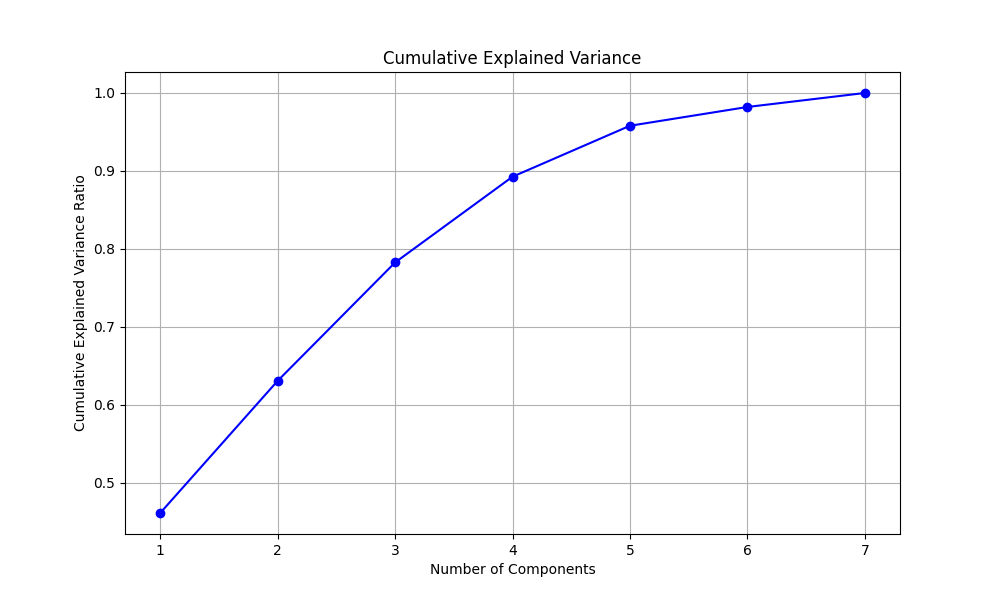
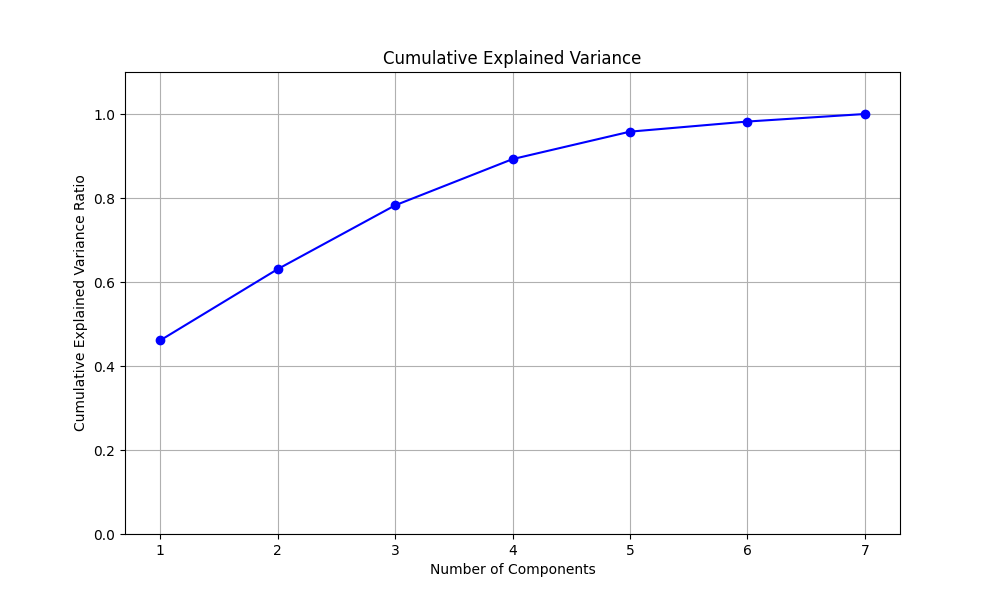
ex finished

diff --git a/pca_analysis.py b/pca_analysis.py
@@ -37,10 +37,26 @@ plt.xlabel('Number of Components')
 plt.ylabel('Cumulative Explained Variance Ratio')
 plt.title('Cumulative Explained Variance')
 plt.grid(True)
+plt.ylim(0, 1.1)  
 plt.savefig('cumulative_variance.png')
 plt.close()
 
-# Create a biplot for PC1 vs PC2
+plt.figure(figsize=(12, 6))
+feature_contributions = pd.DataFrame(
+    pca.components_[0],
+    index=X.columns,
+    columns=['PC1']
+)
+feature_contributions_sorted = feature_contributions.sort_values('PC1', ascending=False)
+plt.bar(range(len(feature_contributions_sorted)), feature_contributions_sorted['PC1'])
+plt.xticks(range(len(feature_contributions_sorted)), feature_contributions_sorted.index, rotation=45, ha='right')
+plt.ylabel('Contribución a PC1')
+plt.title('Contribución de cada variable al Primer Componente Principal')
+plt.grid(True, axis='y')
+plt.tight_layout()
+plt.savefig('pc1_contributions.png')
+plt.close()
+
 plt.figure(figsize=(12, 8))
 plt.scatter(pca_df['PC1'], pca_df['PC2'])
 
@@ -54,14 +70,6 @@ plt.grid(True)
 plt.savefig('pca_biplot.png')
 plt.close()
 
-feature_contributions = pd.DataFrame(
-    pca.components_[0],
-    index=X.columns,
-    columns=['PC1']
-)
-print("\nContribuciones de las variables a PC1:")
-print(feature_contributions.sort_values('PC1', ascending=False))
-
 print("\nRatio de varianza explicada para cada componente:")
 for i, ratio in enumerate(explained_variance_ratio):
     print(f"PC{i+1}: {ratio:.2%}")
@@ -70,7 +78,6 @@ print("\nVarianza acumulada:")
 for i, ratio in enumerate(cumulative_variance_ratio):
     print(f"PC{i+1}: {ratio:.2%}")
 
-# Close the file and restore stdout
 f.close()
 sys.stdout = original_stdout
 
